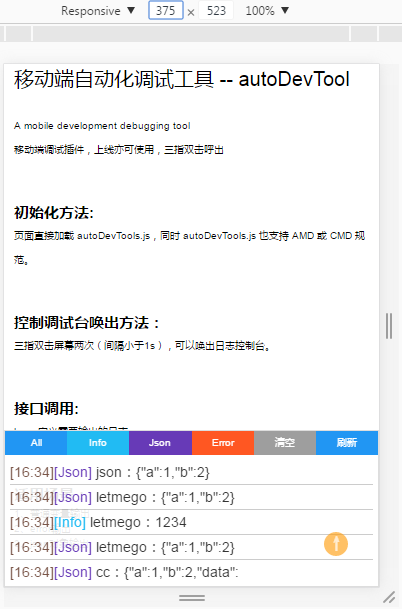
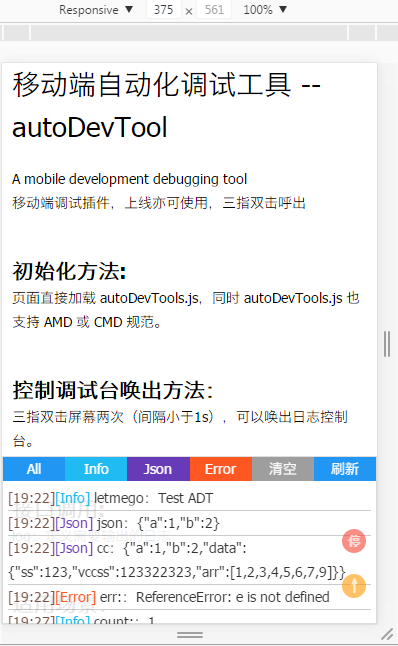
v1.0.3 add demo png

diff --git a/html/index.html b/html/index.html
@@ -6,7 +6,7 @@
 	<link rel="stylesheet" href="http://web.yystatic.com/public/global/base/css/reset.css?v=1">
 	<style>
 		body{
-			font-family: tahoma, Arial, Roboto, 'Droid Sans', 'Helvetica Neue', 'Droid Sans Fallback', 'Hiragino Sans GB', 'Heiti SC', 'Microsoft Yahei', sans-self;
+			font: 14px/1.5 tahoma, Arial, Roboto, 'Droid Sans', 'Helvetica Neue', 'Droid Sans Fallback', 'Hiragino Sans GB', 'Heiti SC', 'Microsoft Yahei', sans-self;
 			padding: 0 10px;
 
 		}
